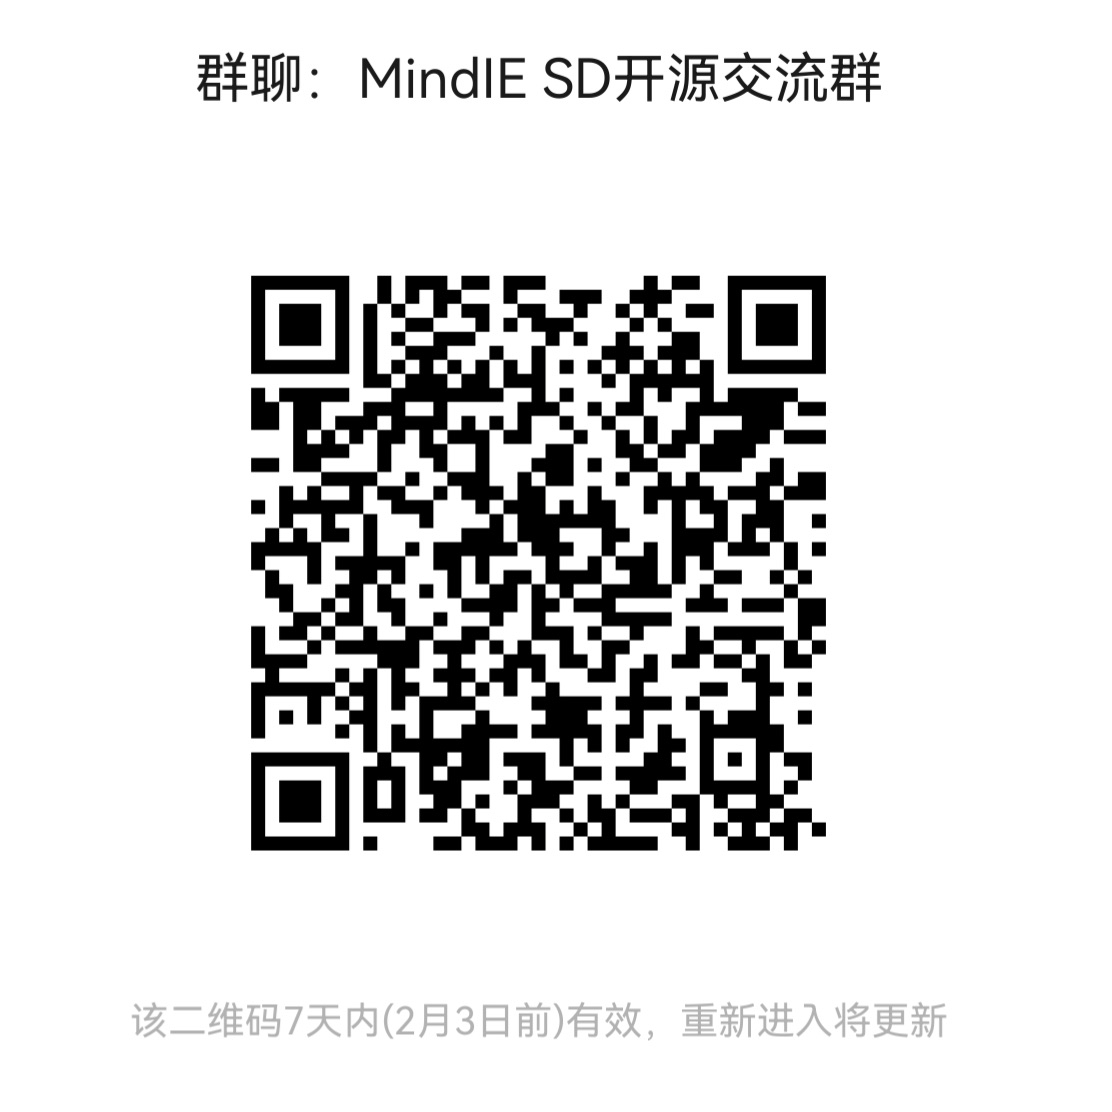
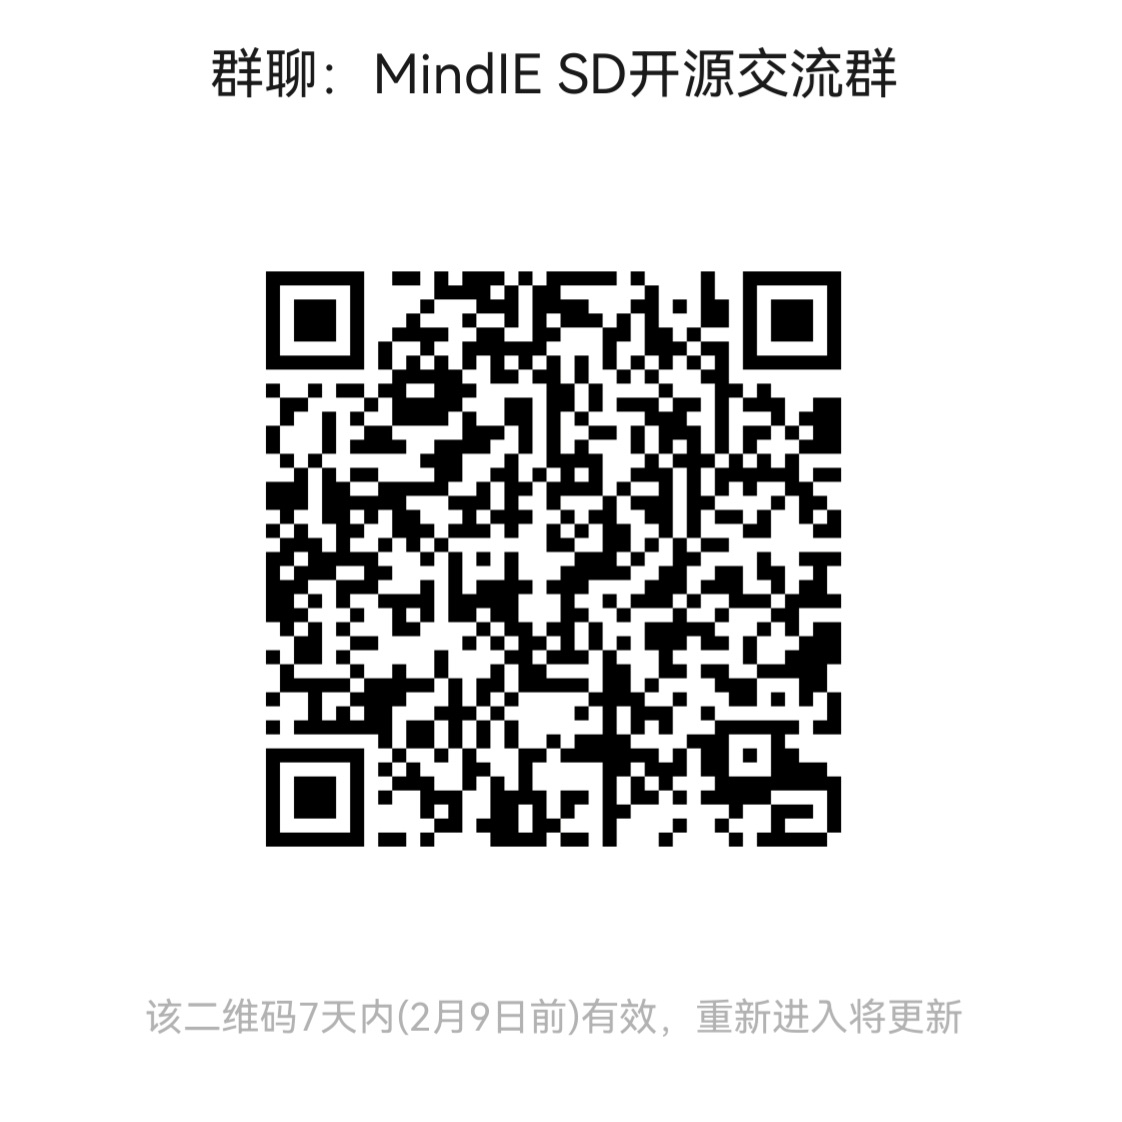
【Docs】readme更新开源群二维码 & 修改[架构介绍]描述
# message auto-generated for no-merge-commit merge:
!161 merge dev into dev

【Docs】readme更新开源群二维码 & 修改[架构介绍]描述

Created-by: zhou-wenxue
Commit-by: zhouwenxue
Merged-by: ascend-robot
Description: # Purpose
1、readme更新开源群二维码
2、readme修改[架构介绍]描述，删除旧版模型支持列表
3、readme新增标志符号

See merge request: Ascend/MindIE-SD!161

diff --git a/docs/features/supported_matrix.md b/docs/features/supported_matrix.md
@@ -1,81 +1,81 @@
-## 模型/框架支持情况
+# 模型/框架支持情况
 
-当前，MindIE SD支持魔乐社区, vLLM Omni, Cache Dit等框架/社区，不同社区的具体使能方法请参考example，
+当前，MindIE SD 支持🤗魔乐社区 🤗vLLM Omni 🤗Cache Dit 等框架/社区，不同社区的具体使能方法请参考 example。
 
-理论上，MindIE SD支持任何多模态模型的推理加速，此处仅列出了我们支持的典型模型的特性叠加情况。
-我们将会持续刷新相关数据，如果你将MindIE SD适配到了新模型，欢迎更新example，刷新列表。
+理论上，MindIE SD 支持任何多模态模型的推理加速，此处仅列出了我们支持的典型模型的特性叠加情况。
+我们将会持续刷新相关数据，如果你将 MindIE SD 适配到了新模型，欢迎更新 example，刷新列表。
 
-### 模型支持情况
+## 📚 模型支持情况
  |  模型       |  vLLM Omni | Cache DiT + diffusers |  魔乐社区  |
  |:----------:|:---------:|:---------------------:|:------:|
- | Stable Diffusion 1.5 |     ×    |          ×           |  ✅    |
- | Stable Diffusion 2.1 |     ×    |          ×           |  ✅    |
- | Stable Diffusion XL  |     ×    |          ×           |  ✅    |
- | Stable Diffusion XL_inpainting |     ×    |          ×           |  ✅    |
- | Stable Diffusion XL_lighting |     ×    |          ×           |  ✅    |
- | Stable Diffusion XL_controlnet |     ×    |          ×           |  ✅    |
- | Stable Diffusion XL_prompt_weight |     ×    |          ×           |  ✅    |
- | Stable Diffusion 3 |     ×    |          ×           |  ✅    |
- | Stable Video Diffusion |     ×    |          ×           |  ✅    |
- | Stable Audio Open v1.0 |     ×    |          ×           |  ✅    |
- | OpenSora v1.2 |     ×    |          ×           |  ✅    |
- | OpenSoraPlan v1.2 |     ×    |          ×           |  ✅    |
- | OpenSoraPlan v1.3 |     ×    |          ×           |  ✅    |
- | CogView3-Plus-3B |     ×    |          ×           |  ✅    |
- | CogVideoX-2B |     ×    |          ×           |  ✅    |
- | CogVideoX-5B |     ×    |          ×           |  ✅    |
- | HunyuanDit |     ×    |          ×           |  ✅    |
- | HunyuanVideo |     ×    |          ×           |  ✅    |
- | Wan2.1 |     ×    |          ×           |  ✅    |
- | Wan2.2 |     ×    |          ×           |  ✅    |
+ | Stable Diffusion 1.5 |     ✖    |          ✖           |  ✅    |
+ | Stable Diffusion 2.1 |     ✖    |          ✖           |  ✅    |
+ | Stable Diffusion XL  |     ✖    |          ✖           |  ✅    |
+ | Stable Diffusion XL_inpainting |     ✖    |          ✖           |  ✅    |
+ | Stable Diffusion XL_lighting |     ✖    |          ✖           |  ✅    |
+ | Stable Diffusion XL_controlnet |     ✖    |          ✖           |  ✅    |
+ | Stable Diffusion XL_prompt_weight |     ✖    |          ✖           |  ✅    |
+ | Stable Diffusion 3 |     ✖    |          ✖           |  ✅    |
+ | Stable Video Diffusion |     ✖    |          ✖           |  ✅    |
+ | Stable Audio Open v1.0 |     ✖    |          ✖           |  ✅    |
+ | OpenSora v1.2 |     ✖    |          ✖           |  ✅    |
+ | OpenSoraPlan v1.2 |     ✖    |          ✖           |  ✅    |
+ | OpenSoraPlan v1.3 |     ✖    |          ✖           |  ✅    |
+ | CogView3-Plus-3B |     ✖    |          ✖           |  ✅    |
+ | CogVideoX-2B |     ✖    |          ✖           |  ✅    |
+ | CogVideoX-5B |     ✖    |          ✖           |  ✅    |
+ | HunyuanDit |     ✖    |          ✖           |  ✅    |
+ | HunyuanVideo |     ✖    |          ✖           |  ✅    |
+ | Wan2.1 |     ✖    |          ✖           |  ✅    |
+ | Wan2.2 |     ✖    |          ✖           |  ✅    |
  | Flux.1-dev |     ✅    |          ✅           |  ✅    |
- | Qwen-Image |     ✅    |          ×           |  ✅    |
- | Qwen-Image-Edit |     ✅    |          ×           |  ✅    |
- | Qwen-Image-Edit-2509 |     ✅    |          ×           |  ✅    |
+ | Qwen-Image |     ✅    |          ✖           |  ✅    |
+ | Qwen-Image-Edit |     ✅    |          ✖           |  ✅    |
+ | Qwen-Image-Edit-2509 |     ✅    |          ✖           |  ✅    |
 
-### vLLM Omni的特性&模型性能
+## 📚 vLLM Omni 特性&模型性能
  |   模型     |  硬件  | Cache   | 并行 | 稀疏FA | 量化 | 融合算子 | 说明 |
  |:----------:|:----:|:-------:|:--:|:----:|:--:|:---------:|:--:| 
- | Flux.1-dev |  A2  |    ✅    | ✅  |  ×   | ✅ |   ✅    |    |
- | Qwen-Image |  A2  |    ✅    | ✅  |  ×   | × |   ✅    |    |
- | Qwen-Image-Edit |  A2  |    ✅    | ✅  |  ×   | × |   ✅    |    |
- | Qwen-Image-Edit-2509 |  A2  |    ✅    | ✅  |  ×   | × |   ✅    |    |
+ | Flux.1-dev |  A2  |    ✅    | ✅  |  ✖   | ✅ |   ✅    |    |
+ | Qwen-Image |  A2  |    ✅    | ✅  |  ✖   | ✖ |   ✅    |    |
+ | Qwen-Image-Edit |  A2  |    ✅    | ✅  |  ✖   | ✖ |   ✅    |    |
+ | Qwen-Image-Edit-2509 |  A2  |    ✅    | ✅  |  ✖   | ✖ |   ✅    |    |
 
 说明：
 A2代表Atlas 800I A2，默认使用的版本算力313T，内存64 GB。
 
-### Cache DiT + diffusers的特性&模型性能
+## 📚 Cache DiT + diffusers 特性&模型性能
  |   模型     |  硬件  | Cache   | 并行 | 稀疏FA | 量化 | 融合算子 | 说明 |
  |:----------:|:----:|:-------:|:--:|:----:|:--:|:---------:|:--:| 
- | Flux.1-dev |  A2  |    ✅    | ✅  |  ×   | ✅ |   ✅    |    |
+ | Flux.1-dev |  A2  |    ✅    | ✅  |  ✖   | ✅ |   ✅    |    |
 
-### 魔乐社区的特性叠加&模型性能
+## 📚 魔乐社区的特性叠加&模型性能
  |   模型     |  硬件  | Cache   | 并行 | 稀疏FA | 量化 | 融合算子 | 说明 |
  |:----------:|:----:|:-------:|:--:|:----:|:--:|:---------:|:--:| 
- | Stable Diffusion 1.5 |  A2 DUO  |    ✅    | ✅  |  ×   | × |   ✅    |    |
- | Stable Diffusion 2.1 |  A2 DUO  |    ✅    | ✅  |  ×   | × |   ✅    |    |
- | Stable Diffusion XL  |  A2 A3 DUO  |    ✅    | ✅  |  ×   | × |   ✅    |    |
- | Stable Diffusion XL_inpainting |  A2 A3  |    ✅    | ×  |  ×   | × |   ✅    |  功能打通  |
- | Stable Diffusion XL_lighting |  A2 A3  |    ✅    | ×  |  ×   | × |   ✅    |  功能打通  |
- | Stable Diffusion XL_controlnet |  A2 A3  |    ✅    | ×  |  ×   | × |   ✅    |  功能打通  |
- | Stable Diffusion XL_prompt_weight |  A2 A3  |    ✅    | ×  |  ×   | × |   ✅    |  功能打通  |
- | Stable Diffusion 3 |  A2 DUO  |    ✅    | ✅  |  ×   | × |   ✅    |    |
- | Stable Video Diffusion |  A2  |    ✅    | ✅  |  ×   | × |   ✅    |    |
- | Stable Audio Open v1.0 |  A2 DUO  |    ✅    | ×  |  ×   | × |   ✅    |    |
- | OpenSora v1.2 |  A2 A3  |    ✅    | ✅  |  ×   | × |   ✅    |    |
- | OpenSoraPlan v1.2 |  A2 A3  |    ✅    | ✅  |  ×   | × |   ✅    |    |
- | OpenSoraPlan v1.3 |  A2  |    ✅    | ✅  |  ×   | × |   ✅    |    |
- | CogView3-Plus-3B |  A2 A3  |    ✅    | ✅  |  ×   | × |   ✅    |    |
- | CogVideoX-2B |  A2 A3  |    ✅    | ✅  |  ×   | × |   ✅    |    |
- | CogVideoX-5B |  A2 A3  |    ✅    | ✅  |  ×   | × |   ✅    |    |
- | FLUX.1-dev |  A2 A3  |    ✅    | ✅  |  ×   | ✅ |   ✅    |    |
- | HunyuanDit |  A2 A3  |    ✅    | ×  |  ×   | × |   ✅    |    |
- | HunyuanVideo |  A2 A3  |    ✅    | ✅  |  ×   | ✅ |   ✅    |    |
- | Wan2.1 |  A2 A3  |    ✅    | ✅  |  ✅   | ✅ |   ✅    |    |
- | Wan2.2 |  A2 A3  |    ✅    | ✅  |  ✅   | ✅ |   ✅    |    |
- | Qwen-Image |  A2 A3  |    ✅    | ✅  |  ×   | ✅ |   ✅    |    |
- | Qwen-Image-Edit |  A2 A3  |    ✅    | ✅  |  ×   | ✅ |   ✅    |    |
- | Qwen-Image-Edit-2509 |  A2 A3  |    ✅    | ✅  |  ×   | ✅ |   ✅    |    |
+ | [Stable Diffusion 1.5](https://modelers.cn/models/MindIE/stable_diffusion_v1.5) |  A2 DUO  |    ✅    | ✅  |  ✖   | ✖ |   ✅    |    |
+ | [Stable Diffusion 2.1](https://modelers.cn/models/MindIE/stable_diffusion_2.1) |  A2 DUO  |    ✅    | ✅  |  ✖   | ✖ |   ✅    |    |
+ | [Stable Diffusion XL](https://modelers.cn/models/MindIE/stable-diffusion-xl)  |  A2 A3 DUO  |    ✅    | ✅  |  ✖   | ✖ |   ✅    |    |
+ | [Stable Diffusion XL_inpainting](https://gitee.com/ascend/ModelZoo-PyTorch/tree/master/MindIE/MindIE-Torch/built-in/foundation/stable_diffusion_xl_inpainting) |  A2 A3  |    ✅    | ✖  |  ✖   | ✖ |   ✅    |  功能打通  |
+ | [Stable Diffusion XL_lighting](https://modelers.cn/models/MindIE/SDXL-Lighting) |  A2 A3  |    ✅    | ✖  |  ✖   | ✖ |   ✅    |  功能打通  |
+ | [Stable Diffusion XL_controlnet](https://gitee.com/ascend/ModelZoo-PyTorch/tree/master/MindIE/MindIE-Torch/built-in/foundation/stable_diffusion_xl_controlnet) |  A2 A3  |    ✅    | ✖  |  ✖   | ✖ |   ✅    |  功能打通  |
+ | [Stable Diffusion XL_prompt_weight](https://gitee.com/ascend/ModelZoo-PyTorch/tree/master/MindIE/MindIE-Torch/built-in/foundation/stable_diffusion_xl_prompt_weight) |  A2 A3  |    ✅    | ✖  |  ✖   | ✖ |   ✅    |  功能打通  |
+ | [Stable Diffusion 3](https://modelers.cn/models/MindIE/stable_diffusion3) |  A2 DUO  |    ✅    | ✅  |  ✖   | ✖ |   ✅    |    |
+ | [Stable Video Diffusion](https://modelers.cn/models/MindIE/stable-video-diffusion) |  A2  |    ✅    | ✅  |  ✖   | ✖ |   ✅    |    |
+ | [Stable Audio Open v1.0](https://modelers.cn/models/MindIE/stable_audio_open_1.0) |  A2 DUO  |    ✅    | ✖  |  ✖   | ✖ |   ✅    |    |
+ | [OpenSora v1.2](https://modelers.cn/models/MindIE/opensora_v1_2) |  A2 A3  |    ✅    | ✅  |  ✖   | ✖ |   ✅    |    |
+ | [OpenSoraPlan v1.2](https://modelers.cn/models/MindIE/open_sora_planv1_2) |  A2 A3  |    ✅    | ✅  |  ✖   | ✖ |   ✅    |    |
+ | [OpenSoraPlan v1.3](https://modelers.cn/models/MindIE/open_sora_planv1_3) |  A2  |    ✅    | ✅  |  ✖   | ✖ |   ✅    |    |
+ | [CogView3-Plus-3B](https://modelers.cn/models/MindIE/CogView3-Plus-3B) |  A2 A3  |    ✅    | ✅  |  ✖   | ✖ |   ✅    |    |
+ | [CogVideoX-2B](https://modelers.cn/models/MindIE/CogVideoX) |  A2 A3  |    ✅    | ✅  |  ✖   | ✖ |   ✅    |    |
+ | [CogVideoX-5B](https://modelers.cn/models/MindIE/CogVideoX) |  A2 A3  |    ✅    | ✅  |  ✖   | ✖ |   ✅    |    |
+ | [FLUX.1-dev](https://modelers.cn/models/MindIE/FLUX.1-dev) |  A2 A3  |    ✅    | ✅  |  ✖   | ✅ |   ✅    |    |
+ | [HunyuanDit](https://modelers.cn/models/MindIE/hunyuan_dit) |  A2 A3  |    ✅    | ✖  |  ✖   | ✖ |   ✅    |    |
+ | [HunyuanVideo](https://modelers.cn/models/MindIE/hunyuan_video) |  A2 A3  |    ✅    | ✅  |  ✖   | ✅ |   ✅    |    |
+ | [Wan2.1](https://modelers.cn/models/MindIE/Wan2.1) |  A2 A3  |    ✅    | ✅  |  ✅   | ✅ |   ✅    |    |
+ | [Wan2.2](https://modelers.cn/models/MindIE/Wan2.2) |  A2 A3  |    ✅    | ✅  |  ✅   | ✅ |   ✅    |    |
+ | [Qwen-Image](https://modelers.cn/models/MindIE/Qwen-Image) |  A2 A3  |    ✅    | ✅  |  ✖   | ✅ |   ✅    |    |
+ | [Qwen-Image-Edit](https://modelers.cn/models/MindIE/Qwen-Image-Edit) |  A2 A3  |    ✅    | ✅  |  ✖   | ✅ |   ✅    |    |
+ | [Qwen-Image-Edit-2509](https://modelers.cn/models/MindIE/Qwen-Image-Edit-2509) |  A2 A3  |    ✅    | ✅  |  ✖   | ✅ |   ✅    |    |
 
  说明：
  A2代表Atlas 800I A2，默认使用的版本算力313T，内存64 GB。

diff --git a/README.md b/README.md
@@ -1,6 +1,6 @@
-# README
+# MindIE SD
 
-## 简介
+## 🚀 简介
 
 **MindIE SD**（Mind Inference Engine Stable Diffusion）是 MindIE 的视图生成推理模型套件，它的目标是为稳定扩散（**Stable Diffusion**, SD）系列大模型提供在昇腾硬件及其软件栈上的端到端推理解决方案。该软件系统内部集成了各功能模块，并对外提供统一的编程接口。
 
@@ -13,20 +13,19 @@
 
 </div>
 
-## Latest News
+## 📢 Latest News
 
 -   12/31/2025: MindIE SD提供稀疏Attention计算能力
 -   12/25/2025：vLLM Omni x MindIE SD 实现 Qwen-Image-Edit-2511 / Qwen-Image-Layered 昇腾原生高性能推理
 -   11/30/2025：MindIE SD 正式宣布开源并面向公众开放！[会议日历](https://meeting.ascend.osinfra.cn/?sig=sig-MindIE-SD)
 
-## 架构介绍及关键特性
+## 🚀 架构介绍及关键特性
 
-详见[架构介绍](docs/architecture.md)（包含：关键特性，目录设计等）
+MindIE SD 架构和关键特性详见[架构介绍](docs/architecture.md)。
+MindIE SD 支持🤗 [魔乐社区](https://modelers.cn/models?name=MindIE&page=1&size=16) 🤗 vLLM Omni 🤗 Cache Dit 等框架/社区，现已支持主流扩散模型，对于部分 diffusers 模型进行了昇腾硬件亲和的加速改造，详见[模型/框架支持情况](docs/features/supported_matrix.md)，模型也支持手动改造，详见 examples。
 
-现已支持主流扩散模型，对于部分 diffusers 模型进行了昇腾硬件亲和的加速改造，模型归档在 [Modelers](https://modelers.cn/models?name=MindIE&page=1&size=16)/[ModelZoo](https://www.hiascend.com/software/modelzoo)，模型列表详见 [List of Supported Models](docs/architecture.md#%E6%A8%A1%E5%9E%8B%E6%94%AF%E6%8C%81%E5%88%97%E8%A1%A8)，也支持手动改造，详见 examples。
 
-
-## 快速开始
+## ⚡ 快速开始
 
 本章节以 **Wan2.1** 模型为例，展示如何使用 MindIE SD 进行文本生成视频，关于该模型的更多推理内容请参见 [Modelers - MindIE/Wan2.1](https://modelers.cn/models/MindIE/Wan2.1)。
 
@@ -56,7 +55,7 @@
     bash examples/wan/infer_t2v.sh --model_base="/home/{用户名}/Wan2.1-T2V-14B"
     ```
 
-## 加速特性效果展示
+## 🌟 加速特性效果展示
 
 下面以 Wan2.1 模型为例，展示在 Atlas 800I A2 (1\*64G) 机器上单卡和多卡实现不同加速特性的加速效果。
 
@@ -99,7 +98,7 @@
 
 注：\* 号表示最优加速效果
 
-## Paper Citations
+## 📝 Paper Citations
 ```
 @misc{RainFusion2.0@2025,
     title = {RainFusion2.0: Temporal-Spatial Awareness and Hardware-Efficient Block-wise Sparse Attention},
@@ -110,6 +109,6 @@
     }
 ```
 
-## 联系我们
+## 💖 联系我们
 ![](./docs/figures/contact-us.jpg)
 ![](./docs/figures/contact-us-MindIESD.jpg)
